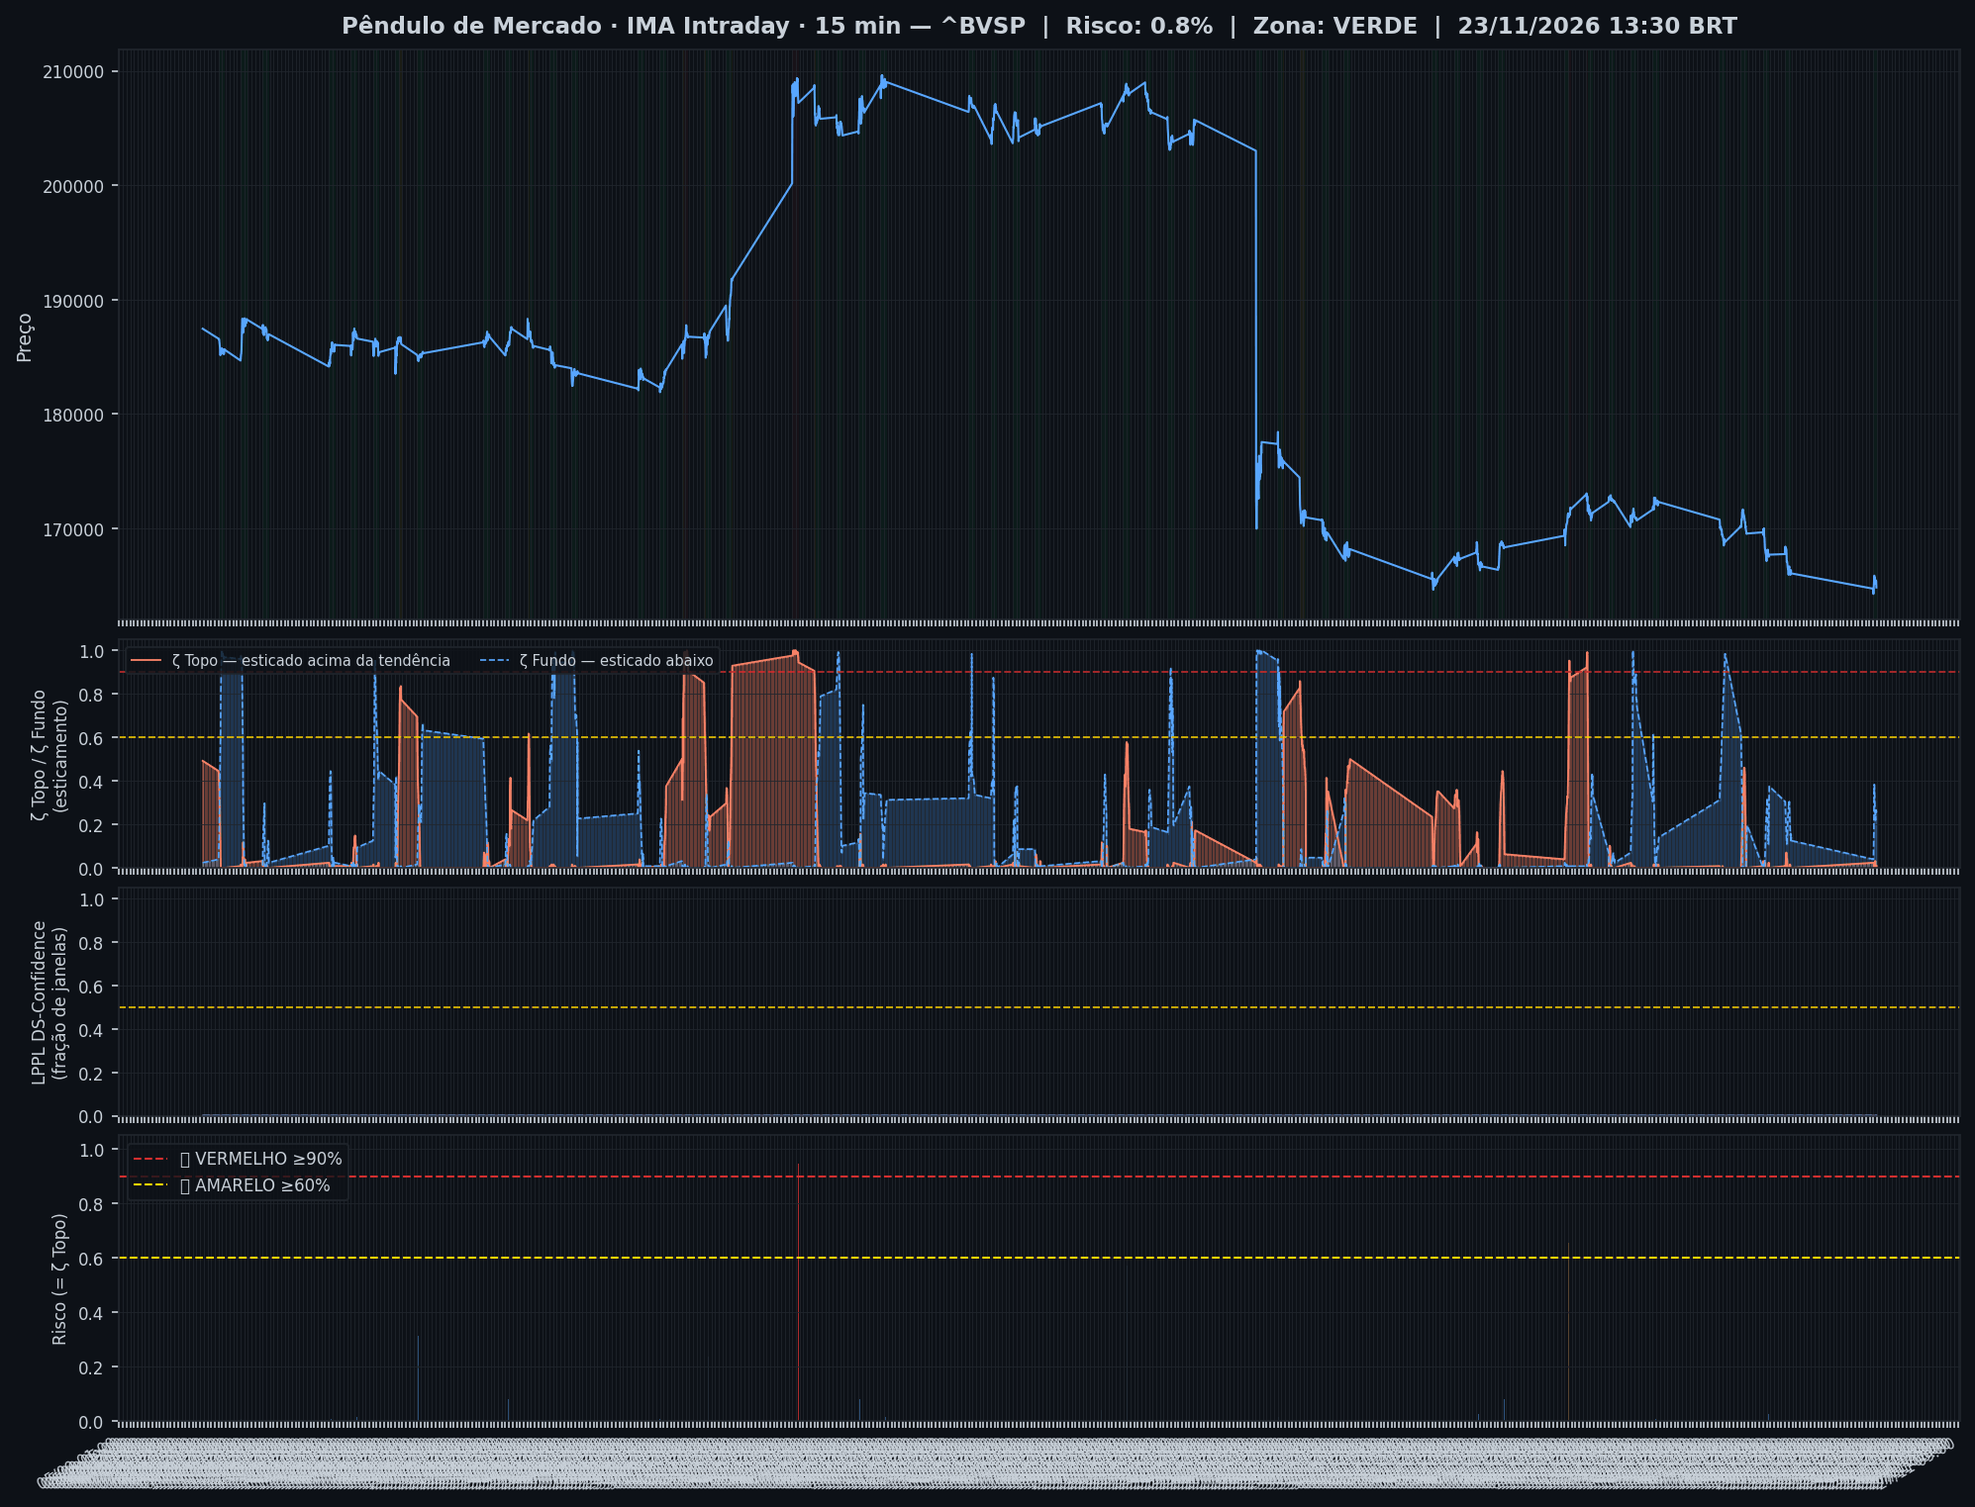
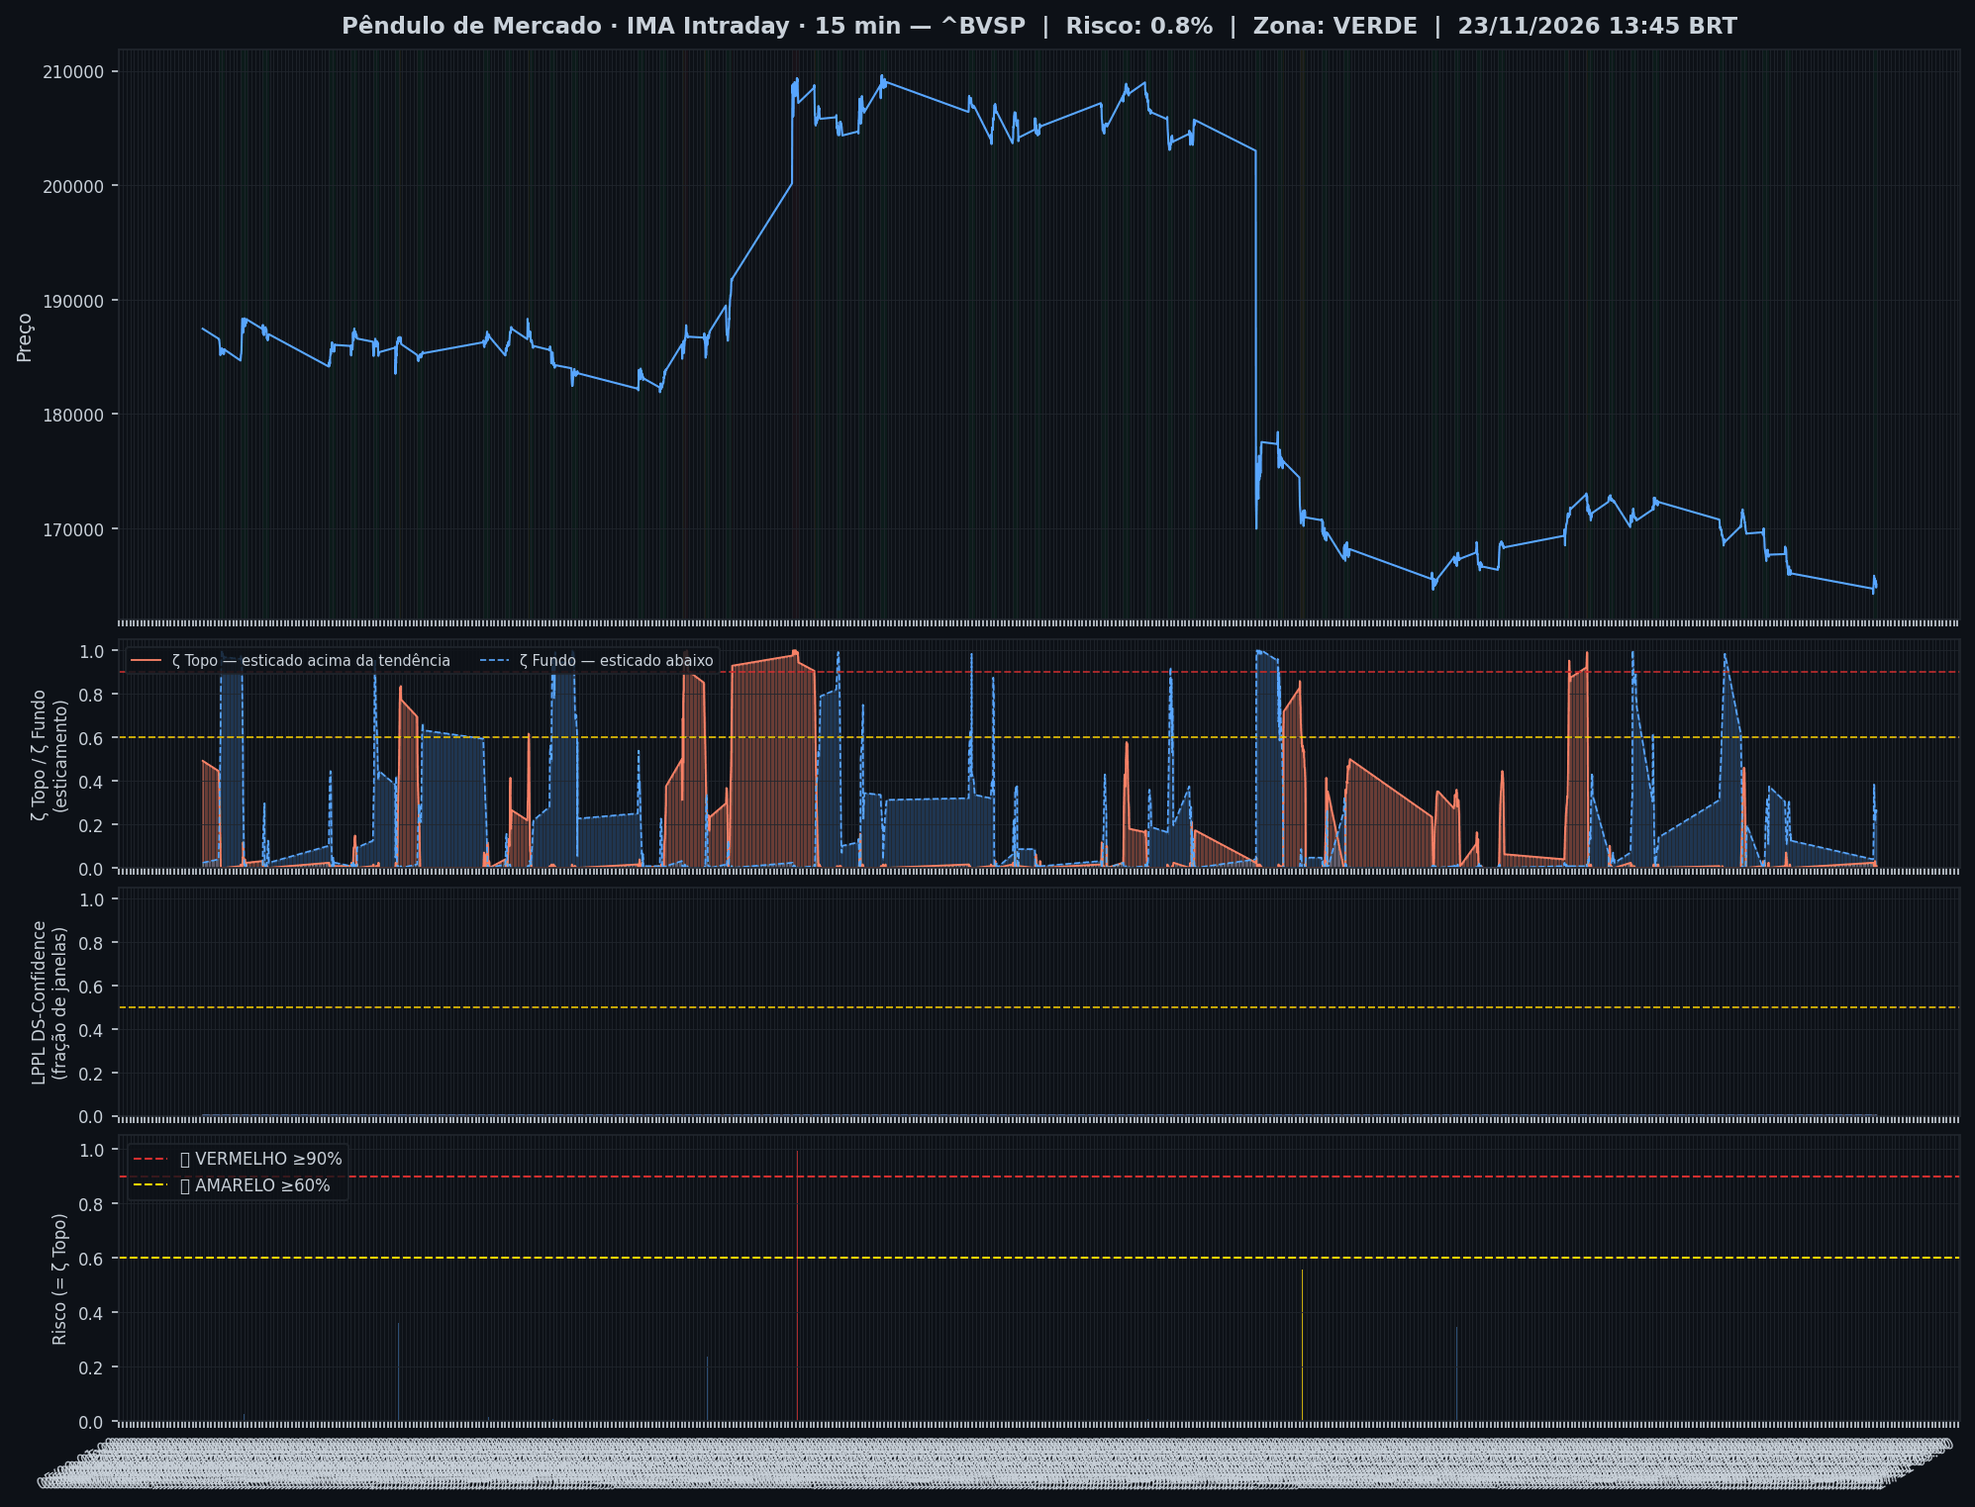
🤖 Auto: Sinal 23/11/2026 14:30

diff --git a/content/intraday/2026-11-23.md b/content/intraday/2026-11-23.md
@@ -1,13 +1,13 @@
 ---
-title: "🟢 Intraday 23/11/2026 13:30 BRT — VERDE"
+title: "🟢 Intraday 23/11/2026 13:45 BRT — VERDE"
 date: 2026-11-23
 tags: [intraday]
 ---
 
-> [!success] Onde o mercado está agora (23/11 13:30, candles de 15 min): **🟢 Calmo**
-> `Pânico ◀────────●────────────▶ Euforia`
+> [!success] Onde o mercado está agora (23/11 13:45, candles de 15 min): **🟢 Calmo**
+> `Pânico ◀───────●─────────────▶ Euforia`
 >
-> **O Ibovespa cai 1,62% agora, aos 164.815 pontos.** O preço está dentro da sua faixa normal, sem excesso para cima nem para baixo.
+> **O Ibovespa cai 1,46% agora, aos 165.083 pontos.** O preço está dentro da sua faixa normal, sem excesso para cima nem para baixo.
 > No gráfico diário: 🌱 Fundo se desfazendo.
 >
 > *Leitura educacional baseada em 26 anos de dados. Não é recomendação de investimento.*
@@ -20,7 +20,7 @@ tags: [intraday]
 > | 📍 **Sinais** | hoje: nenhum sinal | [abrir](sinais-topo-fundo/) |
 > | 🧪 **Placar ao vivo** | 1 operação(ões), 0 com lucro, soma -0,8% | [abrir](operacoes/) |
 
-> [!success] IMA Intraday · 15 min (23/11 13:30): 🟢 **VERDE** — Risco 1% · ▲ +1 p.p. vs leitura anterior
+> [!success] IMA Intraday · 15 min (23/11 13:45): 🟢 **VERDE** — Risco 1% · ＝ +0 p.p. vs leitura anterior
 > `░░░░░░░░░░░░░░░░░░░░`
 > Preço na faixa normal em torno da tendência.
 
@@ -32,13 +32,13 @@ tags: [intraday]
 >
 > *Leitura educacional baseada em 26 anos de dados, não recomendação. [Como usar](../metodologia/crise#3-como-usar-na-prática).*
 
-| Indicador — IMA Intraday · 15 min (23/11 13:30) | Valor |
+| Indicador — IMA Intraday · 15 min (23/11 13:45) | Valor |
 |---|---|
 | 🔴 ζ Topo — preço esticado acima da tendência | **1%** |
-| 🔵 ζ Fundo — preço esticado abaixo da tendência | 25% |
+| 🔵 ζ Fundo — preço esticado abaixo da tendência | 27% |
 | 🫧 LPPL bolha — alta super-exponencial (risco de crash) | 0% |
 | 🫧 LPPL antibolha — queda super-exponencial (risco de repique) | 0% |
-| 📊 Ibovespa | 164.815 pts |
+| 📊 Ibovespa | 165.083 pts |
 
 ![Gráfico do sinal](../graficos/sinal_intraday.png)
 
@@ -46,6 +46,7 @@ tags: [intraday]
 
 | Data | Zona | Evento | Risco | ζ Topo | ζ Fundo | LPPL |
 |---|---|---|---|---|---|---|
+| 2026-11-23 13:45 | 🟢 VERDE |  | **1%** | 1% | 27% | 0% |
 | 2026-11-23 13:30 | 🟢 VERDE |  | **1%** | 1% | 25% | 0% |
 | 2026-11-23 13:15 | 🟢 VERDE |  | **0%** | 0% | 26% | 0% |
 | 2026-11-23 13:00 | 🟢 VERDE |  | **0%** | 0% | 27% | 0% |
@@ -75,7 +76,6 @@ tags: [intraday]
 | 2026-11-19 14:00 | 🟢 VERDE |  | **0%** | 0% | 30% | 0% |
 | 2026-11-19 13:45 | 🟢 VERDE |  | **0%** | 0% | 29% | 0% |
 | 2026-11-19 13:30 | 🟢 VERDE |  | **0%** | 0% | 27% | 0% |
-| 2026-11-19 13:15 | 🟢 VERDE |  | **0%** | 0% | 24% | 0% |
 
 <small>Destaques: 🟡 ≥ 60% · 🔴 ≥ 90% (Risco e ζ Topo) · 🔵 ≥ 60% · 🔪 ≥ 90% (ζ Fundo) · 🫧 ≥ 30% · 🫧🔴 ≥ 50% (LPPL)</small>
 
@@ -84,43 +84,43 @@ tags: [intraday]
 **4% dos ativos em tensão** (0🔴 1🟡) · **4 com ζ Fundo alto** — quanto mais ativos disparam juntos, mais confiável o sinal.
 
 > [!danger] Em destaque no multi-ativo
-> 🔪 **COPEL** ζ Fundo 94% · 🔵 **EQUATORIAL** ζ Fundo 86% · 🔵 **WEG** ζ Fundo 70% · 🟡 **SABESP** ζ Topo 65% · 🔵 **TELEF BRASIL** ζ Fundo 63%
+> 🔪 **COPEL** ζ Fundo 91% · 🔵 **EQUATORIAL** ζ Fundo 84% · 🟡 **SABESP** ζ Topo 81% · 🔵 **WEG** ζ Fundo 70% · 🔵 **TELEF BRASIL** ζ Fundo 69%
 
 | Zona | Ativo | Setor | ζ Topo | ζ Fundo |
 |---|---|---|---|---|
-| 🟢 | **COPEL** | Energia | 0.8% | 🔪 **93.8%** |
-| 🟢 | **EQUATORIAL** | Energia | 0.8% | 🔵 **85.9%** |
-| 🟢 | **WEG** | Industrial | 0.0% | 🔵 **70.3%** |
-| 🟡 | **SABESP** | Saneamento | 🟡 **64.8%** | 0.8% |
-| 🟢 | **TELEF BRASIL** | Outros | 0.8% | 🔵 **63.3%** |
-| 🟢 | **USD/BRL** | Câmbio | 36.7% | 0.0% |
+| 🟢 | **COPEL** | Energia | 0.0% | 🔪 **91.4%** |
+| 🟢 | **EQUATORIAL** | Energia | 0.0% | 🔵 **84.4%** |
+| 🟡 | **SABESP** | Saneamento | 🟡 **81.2%** | 0.0% |
+| 🟢 | **WEG** | Industrial | 0.0% | 🔵 **69.5%** |
+| 🟢 | **TELEF BRASIL** | Outros | 0.0% | 🔵 **68.8%** |
+| 🟢 | **BRADESCO** | Financeiro | 0.0% | 43.0% |
+| 🟢 | **USD/BRL** | Câmbio | 43.0% | 0.0% |
 | 🟢 | **BTGP BANCO** | Financeiro | 0.0% | 34.4% |
-| 🟢 | **ITAUUNIBANCO** | Financeiro | 33.6% | 0.0% |
-| 🟢 | **LOCALIZA** | Aluguel | 0.0% | 30.5% |
-| 🟢 | **BRADESCO** | Financeiro | 0.0% | 29.7% |
-| 🟢 | **PRIO** | Petróleo | 0.0% | 28.9% |
-| 🟢 | **GERDAU** | Siderurgia | 0.8% | 28.1% |
-| 🟢 | **AMBEV S/A** | Consumo | 1.6% | 15.6% |
-| 🟢 | **REDE D OR** | Saúde | 0.0% | 12.5% |
-| 🟢 | **PETROBRAS** | Petróleo | 0.8% | 11.7% |
-| 🟢 | **EMBRAER** | Outros | 11.7% | 0.0% |
-| 🟢 | **BRASIL** | Financeiro | 11.7% | 0.0% |
-| 🟢 | **B3** | Financeiro | 6.2% | 9.4% |
-| 🟢 | **PETROBRAS** | Petróleo | 0.8% | 8.6% |
+| 🟢 | **ITAUUNIBANCO** | Financeiro | 31.2% | 0.8% |
+| 🟢 | **PRIO** | Petróleo | 0.0% | 29.7% |
+| 🟢 | **LOCALIZA** | Aluguel | 0.0% | 29.7% |
+| 🟢 | **GERDAU** | Siderurgia | 0.0% | 21.1% |
+| 🟢 | **PETROBRAS** | Petróleo | 0.0% | 10.9% |
+| 🟢 | **B3** | Financeiro | 2.3% | 10.9% |
+| 🟢 | **PETROBRAS** | Petróleo | 0.0% | 10.2% |
+| 🟢 | **AMBEV S/A** | Consumo | 0.8% | 10.2% |
+| 🟢 | **EMBRAER** | Outros | 9.4% | 0.0% |
+| 🟢 | **BRASIL** | Financeiro | 9.4% | 0.0% |
+| 🟢 | **REDE D OR** | Saúde | 0.8% | 7.8% |
 | 🟢 | **RUMO S.A.** | Outros | 0.8% | 7.0% |
-| 🟢 | **VALE** | Mineração | 6.2% | 0.8% |
-| 🟢 | **VIBRA** | Energia | 0.8% | 6.2% |
-| 🟢 | **AXIA ENERGIA** | Energia | 0.0% | 3.1% |
-| 🟢 | **ITAUSA** | Financeiro | 0.8% | 3.1% |
-| 🟢 | **ULTRAPAR** | Outros | 0.0% | 3.1% |
-| 🟢 | **SUZANO S.A.** | Papel/Celulose | 0.8% | 1.6% |
+| 🟢 | **VALE** | Mineração | 3.9% | 1.6% |
+| 🟢 | **AXIA ENERGIA** | Energia | 0.0% | 2.3% |
+| 🟢 | **ITAUSA** | Financeiro | 0.0% | 2.3% |
+| 🟢 | **VIBRA** | Energia | 0.0% | 2.3% |
+| 🟢 | **ULTRAPAR** | Outros | 0.0% | 2.3% |
 | 🟢 | **ENEVA** | Energia | 0.0% | 0.0% |
+| 🟢 | **SUZANO S.A.** | Papel/Celulose | 0.0% | 0.0% |
 
 <small>Destaques: 🟡 ≥ 60% · 🔴 ≥ 90% (Risco e ζ Topo) · 🔵 ≥ 60% · 🔪 ≥ 90% (ζ Fundo) · 🫧 ≥ 30% · 🫧🔴 ≥ 50% (LPPL)</small>
 
 ![Monitor multi-ativo](../graficos/multi_intraday.png)
 
-*Página atualizada em 23/11/2026 14:15 BRT (leitura da barra de 2026-11-23 13:30 BRT).*
+*Página atualizada em 23/11/2026 14:30 BRT (leitura da barra de 2026-11-23 13:45 BRT).*
 
 > [!warning] O que este indicador não faz
 > Medido em 5 anos de Ibovespa, o ζ **não antecipa** topos nem fundos: a capacidade de separar o que sobe do que cai ficou em 0,49–0,52, e 0,50 é moeda jogada ao ar. Ele descreve o estado de agora; não é aviso do que vem. As zonas verde/amarelo/vermelho continuam na página como descrição desse estado — **não as use como sinal de entrada ou saída**.

diff --git a/content/index.md b/content/index.md
@@ -7,12 +7,12 @@ tags: [home]
 
 **As ondas do mercado, explicadas.** Leitura do Ibovespa com estatística de 26 anos, baseada no trabalho de pesquisadores e traders reconhecidos e adaptada por Jarbas Daniel da Costa.
 
-*Última atualização: 23/11/2026 14:15 BRT · Intraday 15min*
+*Última atualização: 23/11/2026 14:30 BRT · Intraday 15min*
 
-> [!success] Onde o mercado está agora (23/11 13:30, candles de 15 min): **🟢 Calmo**
-> `Pânico ◀────────●────────────▶ Euforia`
+> [!success] Onde o mercado está agora (23/11 13:45, candles de 15 min): **🟢 Calmo**
+> `Pânico ◀───────●─────────────▶ Euforia`
 >
-> **O Ibovespa cai 1,62% agora, aos 164.815 pontos.** O preço está dentro da sua faixa normal, sem excesso para cima nem para baixo.
+> **O Ibovespa cai 1,46% agora, aos 165.083 pontos.** O preço está dentro da sua faixa normal, sem excesso para cima nem para baixo.
 > No gráfico diário: 🌱 Fundo se desfazendo.
 >
 > *Leitura educacional baseada em 26 anos de dados. Não é recomendação de investimento.*
@@ -50,18 +50,18 @@ tags: [home]
 > *Leitura educacional baseada em 26 anos de dados, não recomendação. [Como usar](metodologia/crise#3-como-usar-na-prática).*
 
 > [!info]- 🌊 Detalhes do Sinal IMA (indicadores e últimos 7 pregões)
-> > [!success] IMA Intraday · 15 min (23/11 13:30): 🟢 **VERDE** — Risco 1% · ▲ +1 p.p. vs leitura anterior
+> > [!success] IMA Intraday · 15 min (23/11 13:45): 🟢 **VERDE** — Risco 1% · ＝ +0 p.p. vs leitura anterior
 > > `░░░░░░░░░░░░░░░░░░░░`
 > > Preço na faixa normal em torno da tendência.
 >
 >
-> | Indicador — IMA Intraday · 15 min (23/11 13:30) | Valor |
+> | Indicador — IMA Intraday · 15 min (23/11 13:45) | Valor |
 > |---|---|
 > | 🔴 ζ Topo — preço esticado acima da tendência | **1%** |
-> | 🔵 ζ Fundo — preço esticado abaixo da tendência | 25% |
+> | 🔵 ζ Fundo — preço esticado abaixo da tendência | 27% |
 > | 🫧 LPPL bolha — alta super-exponencial (risco de crash) | 0% |
 > | 🫧 LPPL antibolha — queda super-exponencial (risco de repique) | 0% |
-> | 📊 Ibovespa | 164.815 pts |
+> | 📊 Ibovespa | 165.083 pts |
 >
 > **Multi-ativo:** 4% em tensão (0🔴 1🟡 de 27 ativos)
 >
@@ -69,7 +69,7 @@ tags: [home]
 >
 > | Data | Zona | Risco | ζ Topo | ζ Fundo | LPPL |
 > |---|---|---|---|---|---|
-> | [23/11/2026](intraday/2026-11-23) | 🟢 VERDE | **1%** | 1% | 25% | 0% |
+> | [23/11/2026](intraday/2026-11-23) | 🟢 VERDE | **1%** | 1% | 27% | 0% |
 > | [19/11/2026](intraday/2026-11-19) | 🟢 VERDE | **0%** | 0% | 12% | 0% |
 >
 > <small>Destaques: 🟡 ≥ 60% · 🔴 ≥ 90% (Risco e ζ Topo) · 🔵 ≥ 60% · 🔪 ≥ 90% (ζ Fundo) · 🫧 ≥ 30% · 🫧🔴 ≥ 50% (LPPL)</small>

diff --git a/content/operacoes/entradas.md b/content/operacoes/entradas.md
@@ -84,7 +84,7 @@ description: "Compra depois de um sinal de fundo: Nadaraya no diário, semáforo
 > | Diário · Semáforo N3 após ζ Fundo | 07/07/26 a 172.021 | 10/08/26 a 172.021 | **+0,0%** | stop no preço de entrada |
 > | H4 · Semáforo N2 | 12/06/26 14h a 171.134 | 15/06/26 14h a 171.134 | **+0,0%** | stop no preço de entrada |
 >
-> <small>Atualizado 20/11 19:00 · checado no pregão às 13:45. Nota: ✅ passou no teste fora da amostra (walk-forward 2008–2026) · 🧪 em teste (H4, com aviso no Telegram) ou em observação (ζ, sem aviso) · 🧪 na tabela = operação do teste ao vivo.</small>
+> <small>Atualizado 20/11 19:00 · checado no pregão às 14:00. Nota: ✅ passou no teste fora da amostra (walk-forward 2008–2026) · 🧪 em teste (H4, com aviso no Telegram) ou em observação (ζ, sem aviso) · 🧪 na tabela = operação do teste ao vivo.</small>
 >
 > *Regras: depois de um sinal de fundo, o Diário entra quando o Nadaraya vira para cima; o Semanal e o H4 entram quando um fundo do semáforo fica fixo. Stop e saída de cada regra na [metodologia](metodologia/regras-de-operacao#entradas-do-método). Nenhuma regra de venda passou no teste. Os números do histórico têm viés de escolha (overfitting); o placar ao vivo é o que vale. Leitura educacional do método, não recomendação.*
 

diff --git a/content/integridade/index.md b/content/integridade/index.md
@@ -6,7 +6,7 @@ description: "O que foi conferido, contra qual fonte e quando — medido na hora
 tags: [integridade]
 ---
 
-*Pregão conferido: **19/11/2026**, com 54 tabelas no acervo · página gerada em 23/11/2026 14:15*
+*Pregão conferido: **19/11/2026**, com 54 tabelas no acervo · página gerada em 23/11/2026 14:30*
 
 O pregão conferido é o último **fechado e arquivado inteiro**, não o de hoje: enquanto o dia corre, só algumas tabelas estão gravadas, e conferir um dia pela metade produziria alarme falso.
 
@@ -23,7 +23,7 @@ Esta página não declara que o site está correto. Ela **mede** e escreve o res
 | Tabelas com conteúdo fora da curva | nenhuma |
 | Páginas publicadas | 365 |
 | Conferências cruzadas das páginas | 71 certas, nenhuma divergência |
-| Página escrita mais recentemente | 23/11 14:15 |
+| Página escrita mais recentemente | 23/11 14:30 |
 | Páginas sem data no cabeçalho | 9 — cegas para a conferência de dado |
 
 ## 1 · Acervo do boletim diário

diff --git a/content/operacoes/ranking.md b/content/operacoes/ranking.md
@@ -56,7 +56,7 @@ description: "As regras de compra do site ordenadas pelo resultado, com treino, 
 > 
 > Operação **com 🧪** começou depois de **23/10/2026**, com as regras congeladas. É o único resultado sem nenhum ajuste ao passado, e é por ele que cada regra está sendo julgada.
 
-*Atualizado 23/11/2026 14:15 · histórico simulado com as regras congeladas em 23/10/2026 + placar ao vivo.*
+*Atualizado 23/11/2026 14:30 · histórico simulado com as regras congeladas em 23/10/2026 + placar ao vivo.*
 
 As regras de compra do site, **da que mais rendeu para a que menos rendeu**. O resultado é por operação, no índice à vista, sem custos e sem juros compostos (a soma é só a soma das operações). **Treino** = entradas de 2001 a 2013 e **teste** = 2014 em diante: uma regra só é confiável se ganhou nos dois. O único resultado sem nenhum ajuste ao histórico é o **placar ao vivo**.
 

diff --git a/content/historico.md b/content/historico.md
@@ -5,7 +5,7 @@ tags: [historico]
 
 # 📜 Histórico de leituras (v5)
 
-**2.530 leituras** desde 2026-07-03. Na página ficam os últimos 3 dias leitura por leitura e o resumo de cada dia anterior; o registro inteiro está no arquivo para baixar.
+**2.531 leituras** desde 2026-07-03. Na página ficam os últimos 3 dias leitura por leitura e o resumo de cada dia anterior; o registro inteiro está no arquivo para baixar.
 
 [**Baixar o histórico completo**](historico-completo.csv) (111 KB · abre no Excel e no LibreOffice)
 
@@ -16,6 +16,7 @@ tags: [historico]
 
 | Data | Modo | Zona | Risco | IMA | LPPL |
 |---|---|---|---|---|---|
+| 2026-11-23 13:45 | intraday | 🟢 VERDE | 1% | 1% | 0% |
 | 2026-11-23 13:30 | intraday | 🟢 VERDE | 1% | 1% | 0% |
 | 2026-11-23 13:15 | intraday | 🟢 VERDE | 0% | 0% | 0% |
 | 2026-11-23 13:00 | intraday | 🟢 VERDE | 0% | 0% | 0% |

diff --git a/content/linha-do-tempo/index.md b/content/linha-do-tempo/index.md
@@ -5,7 +5,7 @@ description: "Todo sinal, ordem, stop e aviso do Pêndulo de Mercado, do mais re
 tags: [eventos]
 ---
 
-*Atualizada 23/11/2026 14:15 BRT · a cada 15 min no pregão e às 19h.*
+*Atualizada 23/11/2026 14:30 BRT · a cada 15 min no pregão e às 19h.*
 
 Tudo o que o sistema fez ou detectou, **do mais recente para o mais antigo**: sinais de topo e fundo, ordens de compra e de venda armadas, compras, vendas, stops, avisos de 🚨 preço perto do nível e mudanças do Sinal IMA. Os **últimos 7 dias** ficam abertos; o resto, por **ano → mês → dia**.
 

diff --git a/content/avisos/index.md b/content/avisos/index.md
@@ -2,7 +2,7 @@
 title: "⚠ Avisos: o que saber antes de usar os números"
 ---
 
-*Gerado em 23/11/2026 14:15*
+*Gerado em 23/11/2026 14:30*
 
 Este site publica muitos números, e cada um tem uma limitação que importa na hora de
 decidir. As limitações estão escritas nas próprias páginas, mas quem chega direto numa

diff --git a/content/horarios/index.md b/content/horarios/index.md
@@ -2,7 +2,7 @@
 title: "🕐 Quando este site atualiza"
 ---
 
-*Lido do agendamento do próprio servidor em 23/11/2026 13:40.*
+*Lido do agendamento do próprio servidor em 23/11/2026 14:18.*
 
 
 Esta página não é escrita à mão. Ela é **lida do agendamento do servidor** toda vez que o
